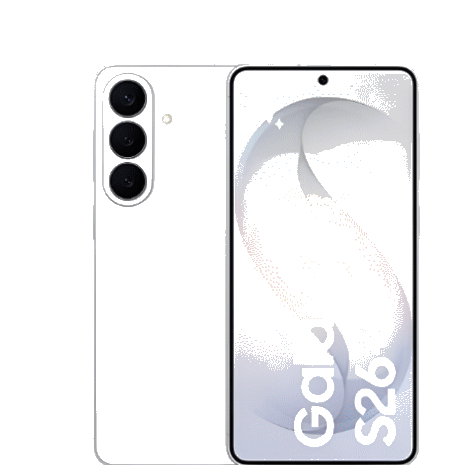
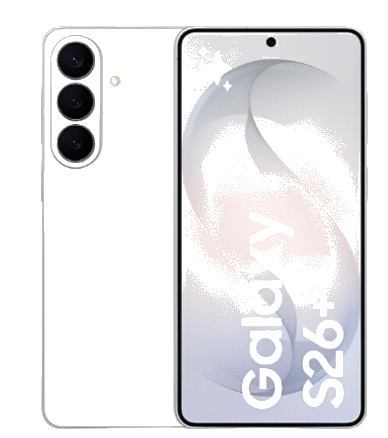
/plus: S26+ 이미지 교체(글자 가독성 개선), Ultra wide 카드 비율 5:4·scale 제거(상단 잘림 수정), 하단 신청버튼 '휴대폰 단독특가 신청하기'로 변경

diff --git a/plus/index.html b/plus/index.html
@@ -288,8 +288,8 @@ footer{padding:16px 0 68px;text-align:center;font-size:10px;color:#bbb;border-to
 .flag-card.wide{grid-column:1 / -1}
 .flag-img{position:relative;aspect-ratio:1/1.05;overflow:hidden;display:flex;align-items:center;justify-content:center;padding:4px;background:#fff}
 .flag-img img{width:100%;height:100%;object-fit:contain;position:relative;z-index:1;transform:scale(1.08)}
-.flag-card.wide .flag-img{aspect-ratio:4/3;padding:8px}
-.flag-card.wide .flag-img img{transform:scale(1.15)}
+.flag-card.wide .flag-img{aspect-ratio:5/4;padding:10px}
+.flag-card.wide .flag-img img{transform:none}
 .flag-tag{position:absolute;top:10px;left:10px;background:rgba(255,255,255,.95);color:#241b36;padding:5px 10px;border-radius:999px;font-size:10px;font-weight:900;letter-spacing:-.01em;z-index:2;box-shadow:0 2px 6px rgba(0,0,0,.15)}
 .flag-body{padding:14px;flex:1;display:flex;flex-direction:column}
 .flag-body h3{font-size:18px;font-weight:900;text-align:center;margin-bottom:10px;color:#111}
@@ -369,7 +369,7 @@ footer{padding:16px 0 68px;text-align:center;font-size:10px;color:#bbb;border-to
       <div class="fl"><label>통신사</label><div class="cr"><div class="cb" onclick="pickC(this)">SKT</div><div class="cb" onclick="pickC(this)">KT</div><div class="cb" onclick="pickC(this)">LGU+</div></div></div>
       <div class="fl"><label>희망기종</label><select id="dbModel" required><option value="" disabled selected>기종 선택</option><option>갤럭시 S26 Ultra</option><option>갤럭시 S26+</option><option>갤럭시 S26</option></select></div>
       <div class="ag"><input type="checkbox" id="dbAgree" required><span>개인정보 수집·이용 동의 <a href="javascript:void(0)" onclick="alert('수집항목: 이름, 연락처, 통신사, 희망기종\n이용목적: 단독특가 상담\n보유기간: 목적 달성 후 즉시 파기\n동의 거부 시 신청 불가')">[보기]</a></span></div>
-      <button type="submit" class="sbtn">갤럭시 단독특가 신청하기</button>
+      <button type="submit" class="sbtn">휴대폰 단독특가 신청하기</button>
     </form>
     <div class="fok" id="formOk"><div class="msg">신청 완료!</div><div class="msg2">전담 상담사가 곧 연락드립니다</div></div>
   </div>
